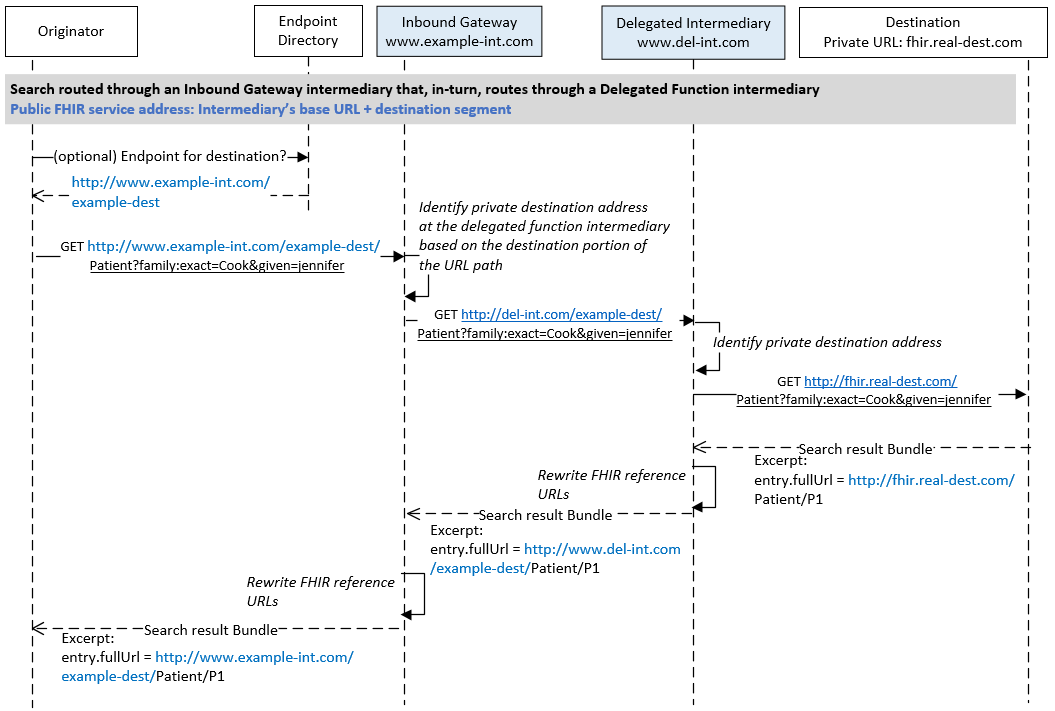
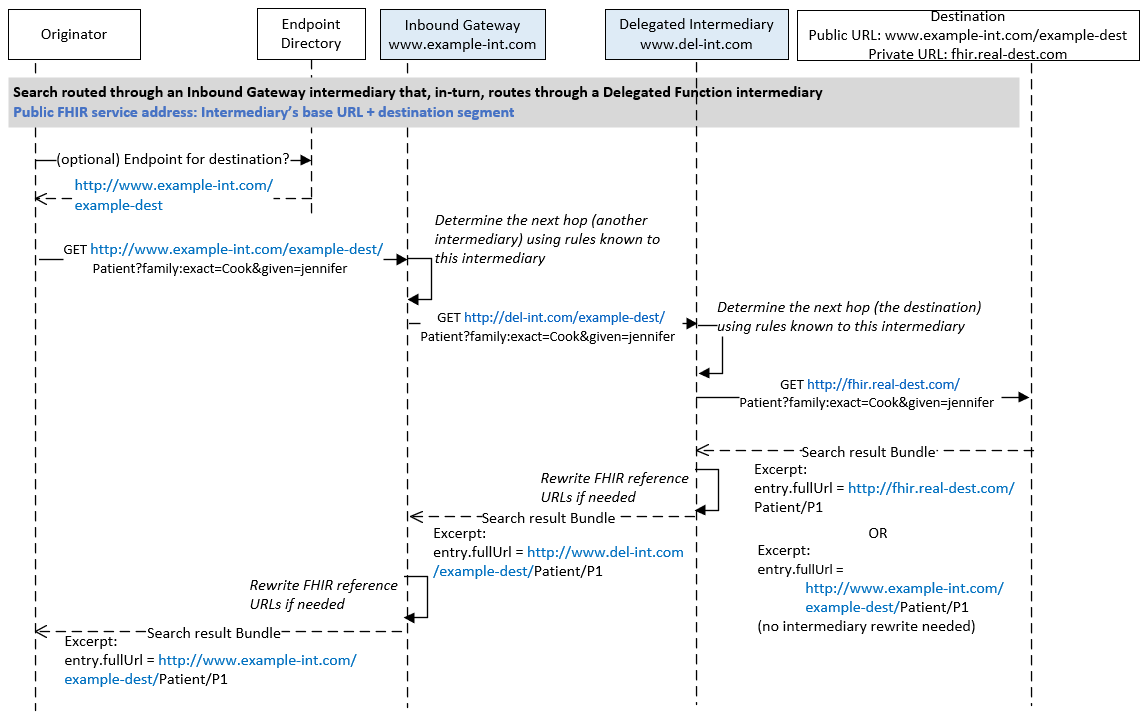
Updates per HL7 public discussions
Changes to Index, Use Cases and Roles, and Specification pages

diff --git a/input/pages/specification - partway.md b/input/pages/specification - partway.md
@@ -8,9 +8,9 @@ This guide assumes that the destination and intermediary participants have estab
 
 - The Inbound Gateway intermediary SHALL agree to accept FHIR requests on the destination's behalf
 - One or more additional delegated intermediaries MAY optionally agree to participate in the routing of requests between the Inbound Gateway intermediary and the destination
-- The destination and Inbound Gateway intermediary establish the destination's [public FHIR service base URL](#destinations-public-fhir-service-base-url) according to their needs
+- The destination and Inbound Gateway intermediary establish the destination's [public FHIR service base URL](public-fhir-service-url-of-the-destination) according to their needs
 - The destination SHALL configure DNS entries for its public FHIR service base URL so that requests resolve to the Inbound Gateway intermediary
-- Each participating intermediary SHALL configure its internal routing mechanisms to enable forwarding of requests to either the destination system or another participating intermediary, as prearranged among the parties. Note: This guide does not prescribe particular routing logic or technical approaches to be used by an intermediary
+- Each participating intermediary SHALL configure its internal routing mechanisms to enable forwarding of requests received at the destination's public FHIR service base URL to either the destination system or another participating intermediary, as prearranged among the parties. Note: This guide does not prescribe particular routing logic or technical approaches to be used by an intermediary
 - One or more public endpoint directories MAY be configured to support searching for the destination and return of the destination's public FHIR service URL 
 
 <p></p>
@@ -30,13 +30,13 @@ Feedback requested: Is it helpful to include the following example approaches? O
 
 Example approaches:
 
-- *Intermediary's base URL followed by a path indicating the destination,* such as `fhir.example-intermediary.com/example-destination`. In this method, the destination's public FHIR service URL consists of a base URL reflecting the Inbound Gateway Intermediary's identity followed by a path segment following the base that reflects the destination's identity. The intermediary may then base routing on the path segment that indicates the destination.
-- *Base URL that reflects the destination's identity,* such as`fhir.example-destination.com`. In this method, the destination uses a public FHIR service base URL that reflects its own identity and, in turn, hides participation of the Inbound Gateway Intermediary it employs. The intermediary bases routing on the network IP address at which it receives the request (the IP to which the public URL's DNS record is mapped).
-- *Subdomain of intermediary's URL that identifies the destination,* such as `example-destination.example-intermediary.com`. In this method, the destination is represented using a subdomain of the Inbound Gateway Intermediary's URL. The intermediary bases routing on the network IP address to which the subdomain's DNS record is mapped.
+- Intermediary's base URL followed by a path indicating the destination, such as `fhir.example-intermediary.com/example-destination`. In this method, the destination's public FHIR service URL consists of a base URL reflecting the Inbound Gateway Intermediary's identity followed by a path segment following the base that reflects the destination's identity. The intermediary may then base routing on the path segment that indicates the destination.
+- Base URL that reflects the destination's identity,** such as`fhir.example-destination.com`. In this method, the destination uses a public FHIR service base URL that reflects its own identity and, in turn, hides participation of the Inbound Gateway Intermediary it employs. The intermediary bases routing on the network IP address at which it receives the request (the IP to which the public URL's DNS record is mapped).
+- Subdomain of intermediary's URL that identifies the destination, such as `example-destination.example-intermediary.com`. In this method, the destination is represented using a subdomain of the Inbound Gateway Intermediary's URL. The intermediary bases routing on the network IP address to which the subdomain's DNS record is mapped.
 
 This guide does not prescribe a particular URL structure to be used; however, it SHALL be a valid [FHIR service base URL](https://www.hl7.org/fhir/http.html#root) that originators can use without knowledge of its individual components--as they do any other FHIR service URL
 
-#### Private FHIR service base URLs used in routing between intermediaries and to the actual destination server
+#### FHIR service base URLs used in routing between intermediaries and to the actual destination server
 
 The destination and each delegated intermediary (participating in exchange hops following the Inbound Gateway intermediary) SHALL define its own URL at which it accepts requests intended for the destination.  Each party is free to determine the appropriate structure of the URL to meet its preferences and technical requirements, as described in the preceding section.
 
@@ -45,13 +45,7 @@ This guide does not prescribe a particular URL structure to be used; however, it
 - be a valid [FHIR service base URL](https://www.hl7.org/fhir/http.html#root) 
 - be a unique URL associated only with the destination.
 
-#### Sharing of private URLs among the destination and partner intermediaries
-
-Private URLs are shared between participating parties as needed to facilitate routing during the exchange. This guide does not assume that a participant will be aware of the URLs used by all "hops" in the exchange, but only its own URL and that of the next participant to which it forwards a request.
-
-<p></p>
-
-### References to the service base URL in returned FHIR resources
+#### References to the service base URL in returned FHIR resources
 
 References to the destination's FHIR service in resources returned by the destination SHALL be consistent with the destination's single public FHIR service base address.  
 
@@ -64,6 +58,60 @@ Those references SHALL either be:
 - rewritten by an intermediary while returning the destination's response to match the public service base URL. See [Response Content URL Rewriting](#response-content-url-rewriting) below.
 
 <p></p>
+
+### Options for routing between intermediaries
+
+Three models may be used to construct and use the destination's public FHIR service address, which all result in a conventional FHIR service base URL.
+
+\* \* \* \* \* \* \* \* \* \* \* \* \* \* \* \* \* \* \* \* \* \* 
+
+***Review note: Stakeholders are currently evaluating which options below to include in the final IG***
+
+\* \* \* \* \* \* \* \* \* \* \* \* \* \* \* \* \* \* \* \* \* \* 
+
+<p></p>
+
+**1. HTTP header option: Intermediary's base URL accompanied by routing metadata passed in HTTP header parameters**, such as <br/>URL: `fhir.example-intermediary.com` 
+HTTP header parameter: `X-Destination: example-destination`
+HTTP header parameter: `X-Originator: example-originator`
+
+In this method, the destination's public FHIR service address consists of: 
+
+- the Inbound Gateway Intermediary's base URL 
+- paired with metadata passed in the HTTP header's `X-Destination` parameter.
+
+The intermediary bases routing on the value passed header parameters.
+
+*Notes:*
+
+- *In order to fulfill this guide's requirement that references to the destination's base service address match its public FHIR service base address, the HTTP routing metadata header parameters SHALL NOT be returned in the response ultimately received by the originator.*
+- ***To Do: Use of the X-Originator parameter has not yet been fully defined***
+
+<p></p>
+
+**2. Intermediary's base URL accompanied by routing metadata passed in a query string parameter**, such as <br/>`fhir.example-intermediary.com/?_x-destination=12345`
+
+\* \* \* \* \* \* \* \* \* \* \* \* \* \* \* \* \* \* \* \* \* \* 
+
+***Note: Discussion in the May 2021 HL7 FHIR Connectathon determined that this approach would create URL strings that do not conform with FHIR requirements.***
+
+\* \* \* \* \* \* \* \* \* \* \* \* \* \* \* \* \* \* \* \* \* \* 
+
+In this method, the destination's public FHIR service address consists of: 
+
+- the Inbound Gateway Intermediary's base URL 
+- paired with metadata passed in a query string x-destination parameter appended to the FHIR request URL string. 
+
+The parameter is:
+
+- added to the end of the request URL if it does not otherwise contain a query string. For example, in a GET that requests a resource by its identifier, the x-destination is appended to the end of the request: `GET http://fhir.intermediary.com/Patient/P1?_x-destination=12345`
+- added as an additional parameter if the request already contains a query string. For example, in a search: 
+  `GET http://fhir.intermediary.com/Patient?family:exact=Cook&given=jennifer`
+  `&_x-destination=12345`
+
+The intermediary bases routing on the value passed in the `x-destination` parameter, and then strips it from the URL string before forwarding the request to the destination system.
+
+*Response content URL rewriting.* In order to fulfill this guide's requirement that references to the destination's base service address match its public FHIR service base address, the intermediary rewrites full FHIR service URLs contained in FHIR resources returned by the destination (e.g., in an `.endpoint` or `Bundle.entry.fullURL` element) to match the URL + x-destination query string to which the originator submitted the request.
 
 <p></p>
 
@@ -140,14 +188,23 @@ The originator accepts the response. If it wishes to submit a follow-on request 
 
 <p></p>
 
-**Exchange flow**
+***FHIR service address option 1 - Base URL reflects the destination's identity***
 
-<blockquote class="stu-note">
-<p>
-Feedback requested: Would it be helpful to include multiple examples using different URL approaches? Or is it better to include just one--given that the guide does not prescribe a particular URL structure?</p>
-</blockquote>
+<div><p>
+  <img src="uc-search-single-intermediary-dest-url.png" style="float:none; width:1000px">  
+    </p>
+</div>
+<p></p>
 
-***Example - Intermediary's Base URL followed by a path indicating the destination***
+***FHIR service address option 2 - Subdomain of intermediary's URL identifies the destination***
+
+<div><p>
+  <img src="uc-search-single-intermediary-subdomain.png" style="float:none; width:1000px">  
+    </p>
+</div>
+<p></p>
+
+***FHIR service address option 3 - Intermediary's Base URL followed by a path indicating the destination***
 
 <div><p>
   <img src="uc-search-single-intermediary-int-url-plus-segment.png" style="float:none; width:1000px">  
@@ -207,30 +264,28 @@ The originator accepts the response. If it wishes to submit a follow-on request 
 
 <p></p>
 
+**Exchange Flows**
 
-
-<blockquote class="stu-note">
-<p>
-Feedback requested: Would it be helpful to include multiple examples using different URL approaches? Or is it better to include just one--given that the guide does not prescribe a particular URL structure?</p>
-</blockquote>
-
-**Exchange Flow**
-
-***Example - Intermediary's Base URL followed by a path indicating the destination***
+***Intermediary routing option 1 - Intermediary's Base URL with routing metadata passed in HTTP header parameters***
 
 <div><p>
-  <img src="uc-search-two-intermediaries-int-url-plus-segment.png" style="float:none">  
+  <img src="uc-search-two-intermediaries-int-url-header.png" style="float:none; width:1000px">  
+    </p>
+</div>
+
+***Intermediary routing option 2 - Intermediary's Base URL with routing metadata passed in a query string parameter***
+
+\* \* \* \* \* \* \* \* \* \* \* \* \* \* \* \* \* \* \* \* \* \* 
+
+***Note:** Discussion in the May 2021 HL7 FHIR Connectathon determined that this approach might create URL strings that do not conform with FHIR requirements.*
+
+\* \* \* \* \* \* \* \* \* \* \* \* \* \* \* \* \* \* \* \* \* \* 
+
+<div><p>
+  <img src="uc-search-two-intermediaries-query-string.png" style="float:none; width:1000px">  
     </p>
 </div>
 <p></p>
-
-
-
-
-
-
-
-<p></p><hr><p></p>
 
 ### Asynchronous Scenario
 
@@ -280,18 +335,35 @@ The originator later retrieves the response data using the address previously re
 
 <p></p>
 
-<blockquote class="stu-note">
-<p>
-Feedback requested: Would it be helpful to include multiple examples using different URL approaches? Or would it be better to include just one--given that the guide does not prescribe a particular URL structure?</p>
-</blockquote>
+**Exchange Flows**
 
-**Exchange Flow**
-
-***Example - Intermediary's Base URL followed by a path indicating the destination***
+***FHIR service address option 1 - Base URL reflects the destination's identity***
 
 <div><p>
-  <img src="uc-async-single-intermediary-int-url-plus-segment.png" style="float:none">  
+  <img src="uc-async-single-intermediary-dest-url.png" style="float:none; width:1000px">  
     </p>
 </div>
+
+
+
+ <p></p>
+
+***FHIR service address option 2 - Subdomain of intermediary's URL identifies the destination***
+
+<div><p>
+  <img src="uc-async-single-intermediary-subdomain.png" style="float:none; width:1000px">  
+    </p>
+</div>
+
+
+<p></p>
+
+***FHIR service address option 3 - Intermediary's Base URL followed by a path indicating the destination***
+
+<div><p>
+  <img src="uc-async-single-intermediary-int-url-plus-segment.png" style="float:none; width:1000px">  
+    </p>
+</div>
+
 
 <br>

diff --git a/input/pages/use-cases.md b/input/pages/use-cases.md
@@ -1,7 +1,7 @@
 This guide supports scenarios where intermediaries take part in RESTful FHIR exchanges between an initiating system (the "originator") and the desired endpoint system (the "destination").  It focuses on scenarios where:
 
 - the originator directs the exchange to the destination's public FHIR service base URL, for example as retrieved from an endpoint directory
-- but the destination has an arrangement where an intermediary accepts the request on the destination's behalf and then routes it--directly or through another intermediary--to the destination's system.
+- but the destination has an arrangement where an intermediary accepts the request on the destination's behalf and then routes it to the destination's system -- either directly or through another intermediary.
 
 This page defines the roles that intermediaries play in the scenarios addressed in this guide and then describes those scenarios more fully.
 
@@ -22,18 +22,19 @@ This page defines the roles that intermediaries play in the scenarios addressed 
     </tr>
     <tr>
       <td>Inbound  Gateway</td>
-      <td>This intermediary role receives all requests to the destination and  forwards them to the destination system or another intermediary</td>
+      <td>This intermediary role receives requests intended for the destination and  forwards them to the destination system or another intermediary</td>
       <td>The Inbound Gateway assumes the responsibility of securing a public endpoint and potentially performing other work (registering clients, etc.) on behalf of the destination</td>
-      <td>DNS entries are used to “point” the destination’s public URL to this intermediary. Common intermediary role for financial and administrative data exchange</td>
+      <td>Public DNS entries are used to “point” the destination’s public URL to this intermediary. Common intermediary role for financial and administrative data exchange</td>
     </tr>
     <tr>
       <td>Delegated  Intermediary</td>
       <td>This intermediary role assists in routing from a different intermediary to the destination system</td>
-      <td>This intermediary may act as a public hub to which the destination system is connected</td>
-      <td>Intermediaries may share non-public routing information to support delivery to the ultimate receiver</td>
+      <td>This intermediary may serve as a public network or hub to which the destination system is connected</td>
+      <td>Intermediaries may share non-public routing information to support delivery to the ultimate destination</td>
     </tr>
   </tbody>
 </table>
+
 
 
 
@@ -46,8 +47,9 @@ While there are many potential exchange scenarios in which an intermediary could
 
 - the exchange is a RESTful FHIR interaction
 - the originator directs its exchange to the intended destination's public FHIR service address
-- the originator is unaware that an intermediary will play a role in routing the request, and
-- the intermediary plays either the **Inbound Gateway** or **Delegated Function Intermediary** roles described above.
+- the originator may be unaware that an intermediary will play a role in routing the request, and has no additional responsibilities beyond those in a typical point-to-point FHIR exchange, and
+- an intermediary plays the **Inbound Gateway** role described above, accepting requests from the originator
+- one or more additional intermediaries optionally play the **Delegated Function Intermediary** role described above, assisting in routing to the destination.
 
 Scenarios are separated into two groups below:
 
@@ -61,11 +63,21 @@ Scenarios are separated into two groups below:
 
 ### Excluded scenarios 
 
-This guide does not provide guidance for: 
+This guide does not provide guidance for the use of [FHIR Messaging](https://www.hl7.org/fhir/messaging.html), which also includes routing features that can be used to exchange message content through intermediaries.
 
-- situations where the originator arranges to address some or all of its requests to an intermediary--who, in turn, uses logic, provided metadata or other means to determine and route to an appropriate destination
+<p></p>
 
-- use of FHIR Messaging, which also includes routing features that can be used to exchange message content through intermediaries.
+### Assumptions and Setup Steps
+
+This guide assumes that the destination and intermediary participants have established business arrangements and performed the following configuration steps prior to processing requests:
+
+- The destination arranges for an Inbound Gateway intermediary to accept FHIR requests on its behalf
+- The destination and Inbound Gateway intermediary establish the destination's public FHIR service base URL. The parties determine the structure of the URL to meet their preferences and technical requirements. For example, the URL's hostname may refer to either the destination or the intermediary and path segments may be included to identify the destination, specify the supported FHIR version, etc.
+  - This guide does not prescribe a particular URL structure to be used; it can be any valid [FHIR service base URL](https://www.hl7.org/fhir/http.html#root) that originators can use without knowledge of its individual components--as they do any other FHIR service URL
+- The destination configures DNS entries for its public FHIR service base URL so that requests resolve to the Inbound Gateway intermediary
+- The destination shares its private server address with the Inbound Gateway intermediary, and the intermediary configures its internal routing mechanisms to enable it to forward requests received at the destination's public FHIR service base URL to either the destination system or another participating intermediary
+  - This guide does not prescribe particular routing logic or technical approaches to be used by the intermediary
+- (Optional) One or more public endpoint directories are configured to support searching for the destination and return of the destination's public FHIR service URL 
 
 <p></p>
 
@@ -77,20 +89,12 @@ This guide does not provide guidance for:
 
 This scenario supports a situation where the destination delegates the responsibility of securing a public endpoint--and potentially performing other functions such as registering clients--to an intermediary. A single intermediary participates in this exchange, forwarding requests directly from the originator to the destination. The destination processes the request and synchronously returns its response.
 
-Steps
-
-- Originator obtains the destination's public FHIR service address
-
-- Originator initiates a RESTful interaction using the destination's public FHIR service address
-
+- The originator obtains the destination's public FHIR service base URL, for example from a FHIR endpoint directory
+- The originator initiates a RESTful interaction using the destination's public FHIR service base URL
 - The exchange is received by the Inbound Gateway intermediary
-
 - The intermediary routes the exchange to the destination
-
-- The destination processes the request and returns its response to the intermediary. References to the destination's FHIR service in returned resources match the public FHIR service address used by the originator
-
+- The destination processes the request and returns its response to the intermediary, first [rewriting certain resource URLs](specification.html#response-content-url-rewriting) if needed 
 - The intermediary passes through the response to the originator
-
 - The originator receives the response
 
 *[Exchange flows and additional details](specification.html#scenario-request-routed-through-a-single-inbound-gateway-intermediary)*
@@ -115,9 +119,9 @@ Steps
 
 - The destination processes the request and returns its response to the last intermediary
 
-- The delegated intermediary passes through the response to the Inbound Gateway intermediary
+- The delegated intermediary passes through the response to the Inbound Gateway intermediary, first [rewriting certain resource URLs](specification.html#response-content-url-rewriting) if needed
 
-- The Inbound Gateway intermediary, which is holding a synchronous connection with the originator, passes through the response
+- The Inbound Gateway intermediary, which is holding a synchronous connection with the originator, passes through the response, first [rewriting certain resource URLs](specification.html#response-content-url-rewriting) if needed
 
 - The originator receives the response
 

diff --git a/input/pages/index.md b/input/pages/index.md
@@ -1,4 +1,18 @@
-### Overview
+<blockquote class="stu-note">
+<p>
+This specification is a proposed Standard for Trial Use. It is expected to continue to evolve and improve through connectathon testing and feedback from early adopters. 
+</p>
+<p>
+Feedback is welcome and may be submitted through the <a href="https://chat.fhir.org/#narrow/stream/264775-FHIR-at.20Scale.20.28FAST.29.3A.20Exchange.20with.2Fwithout.20intermediaries">FHIR at Scale (FAST): Exchange with/without intermediaries Zulip stream</a>.
+</p>
+</blockquote>
+
+
+
+<p></p>
+
+### Overview
+
 As the range of healthcare actors using FHIR has grown, so has the need to route exchanges across intermediaries such as clearinghouses, HIEs, national networks, and others. An example of this scenario is the situation in which a payer uses a clearinghouse intermediary as their 'gateway' for receiving FHIR requests. 
 
 Stakeholders use intermediaries for technical, operational and business reasons. The intermediary model was born in the world of the original X12 transaction set and is expected to continue as RESTful FHIR API integration evolves. Other networks, including HIEs and national networks, have emerged as brokering intermediaries for document access/exchange, e-prescribing and other purposes, and may also engage in FHIR-based interoperability.
@@ -114,8 +128,14 @@ The guide is organized into the following sections:
 		<td>September 10, 2021</td>
 		<td>Adjustments based on public discussions during the week of Sep. 6. <br><br>Specification page: Modified all diagrams and sections according to current discussion. Reintroduced the HTTP Header approach sections and diagrams previously removed from the IG. Removed app path approach from intermediary-to-intermediary routing. Clarified construction of the public URL (addressing to the Inbound Gateway) vs. addressing between intermediaries. Added discussion notes. <br><br>Use Cases page: Adjustments to intermediary roles table and links to the Specification page. <br><br>Index page: adjusted scope section.</td>
   	  </tr>
+	  <tr>
+		<td>October 23, 2021</td>
+		<td>Adjustments based on public discussions during the week of Oct. 18. <br><br>Specification page: Added section, Assumptions: Partnership and setup between the originator and intermediaries. Added content to the section, Public FHIR service URL of the destination, indicating that the guide does not prescribe a particular URL structure. Added section, Private FHIR service base URLs used in routing between intermediaries and to the actual destination server. Added section, Sharing of private URLs among the destination and partner intermediaries. Removed HTTP header and querystring flows and replaced with URL-based options
+ <br><br>Index page: added STU note. <br><br>Use Cases and Roles page: Removed a scenario from the Excluded Scenarios bullet a statement. Added an Assumptions and Setup Steps section. Added links within the scenario overviews to URL rewriting section in the Specification page</td>
+  	  </tr>
    </tbody>
   </table>
+
 
 
 <br />
